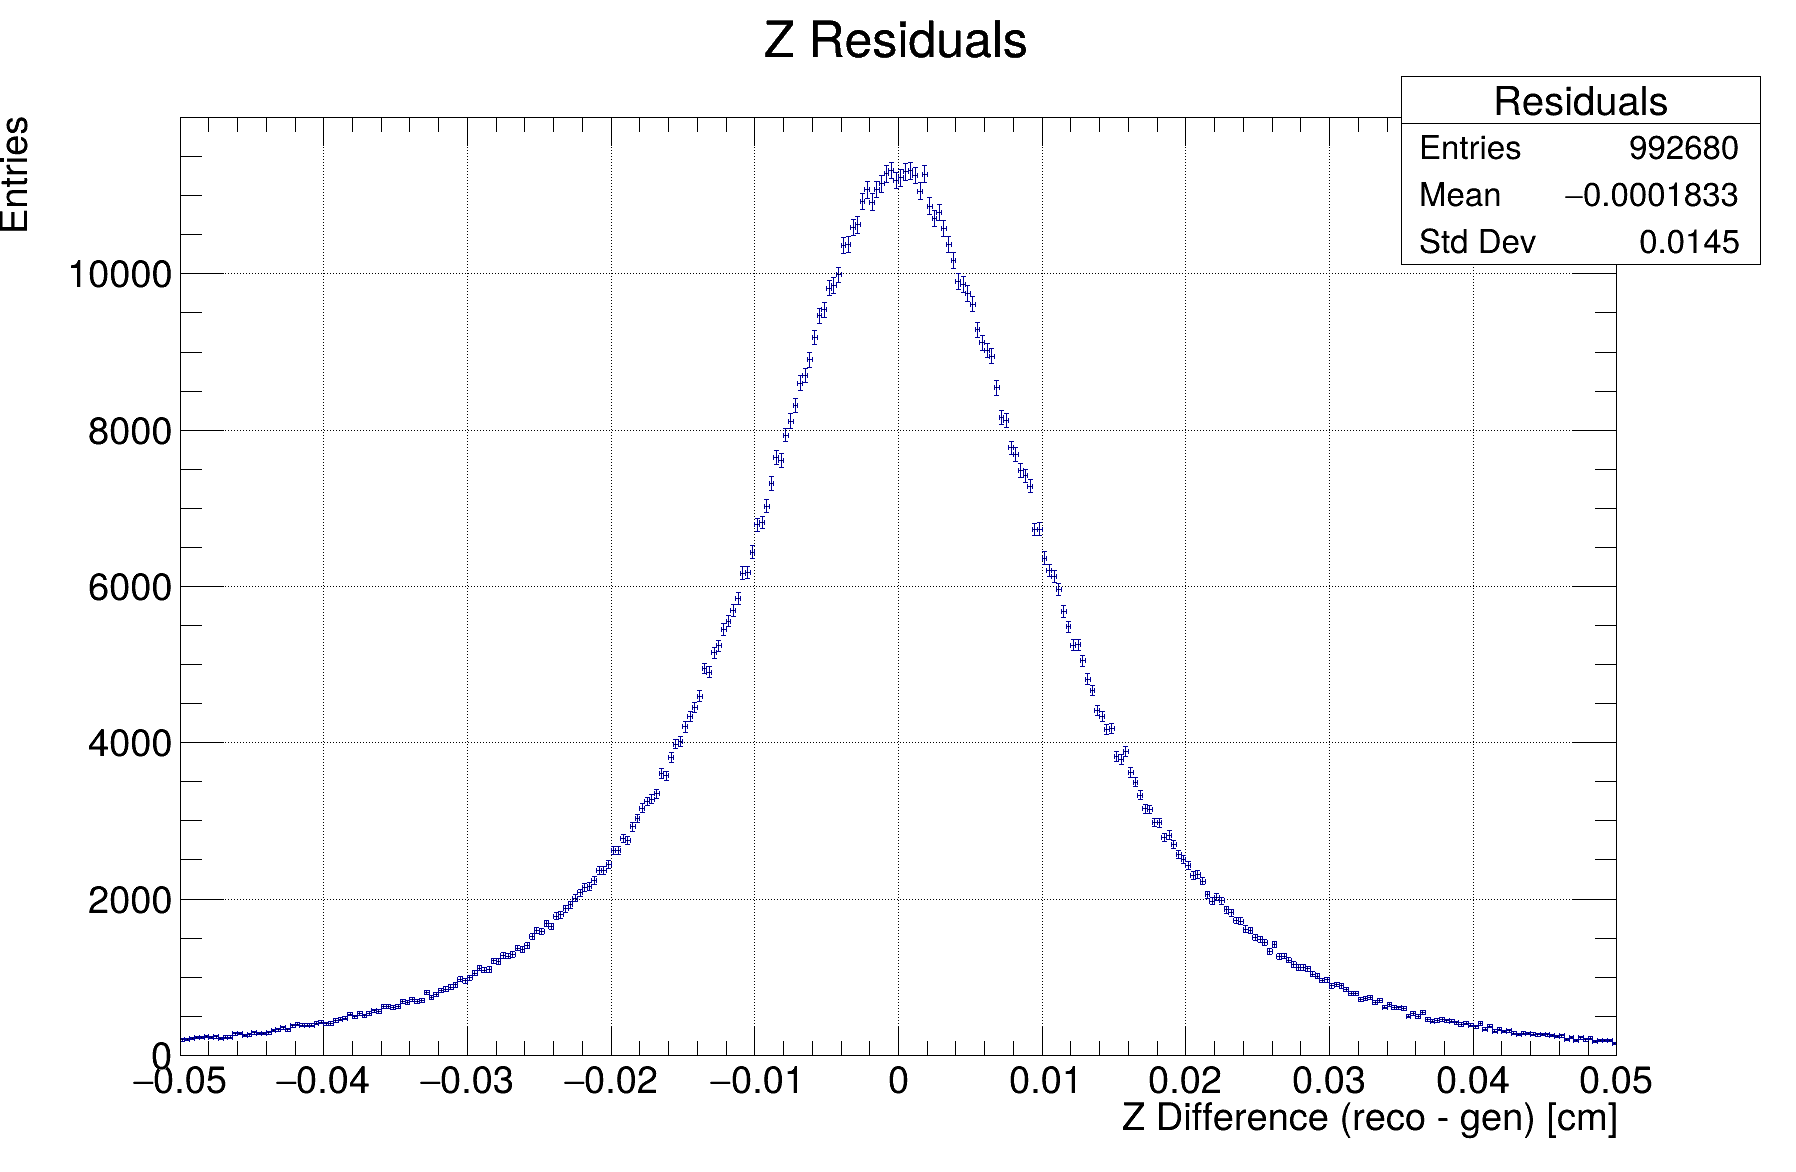
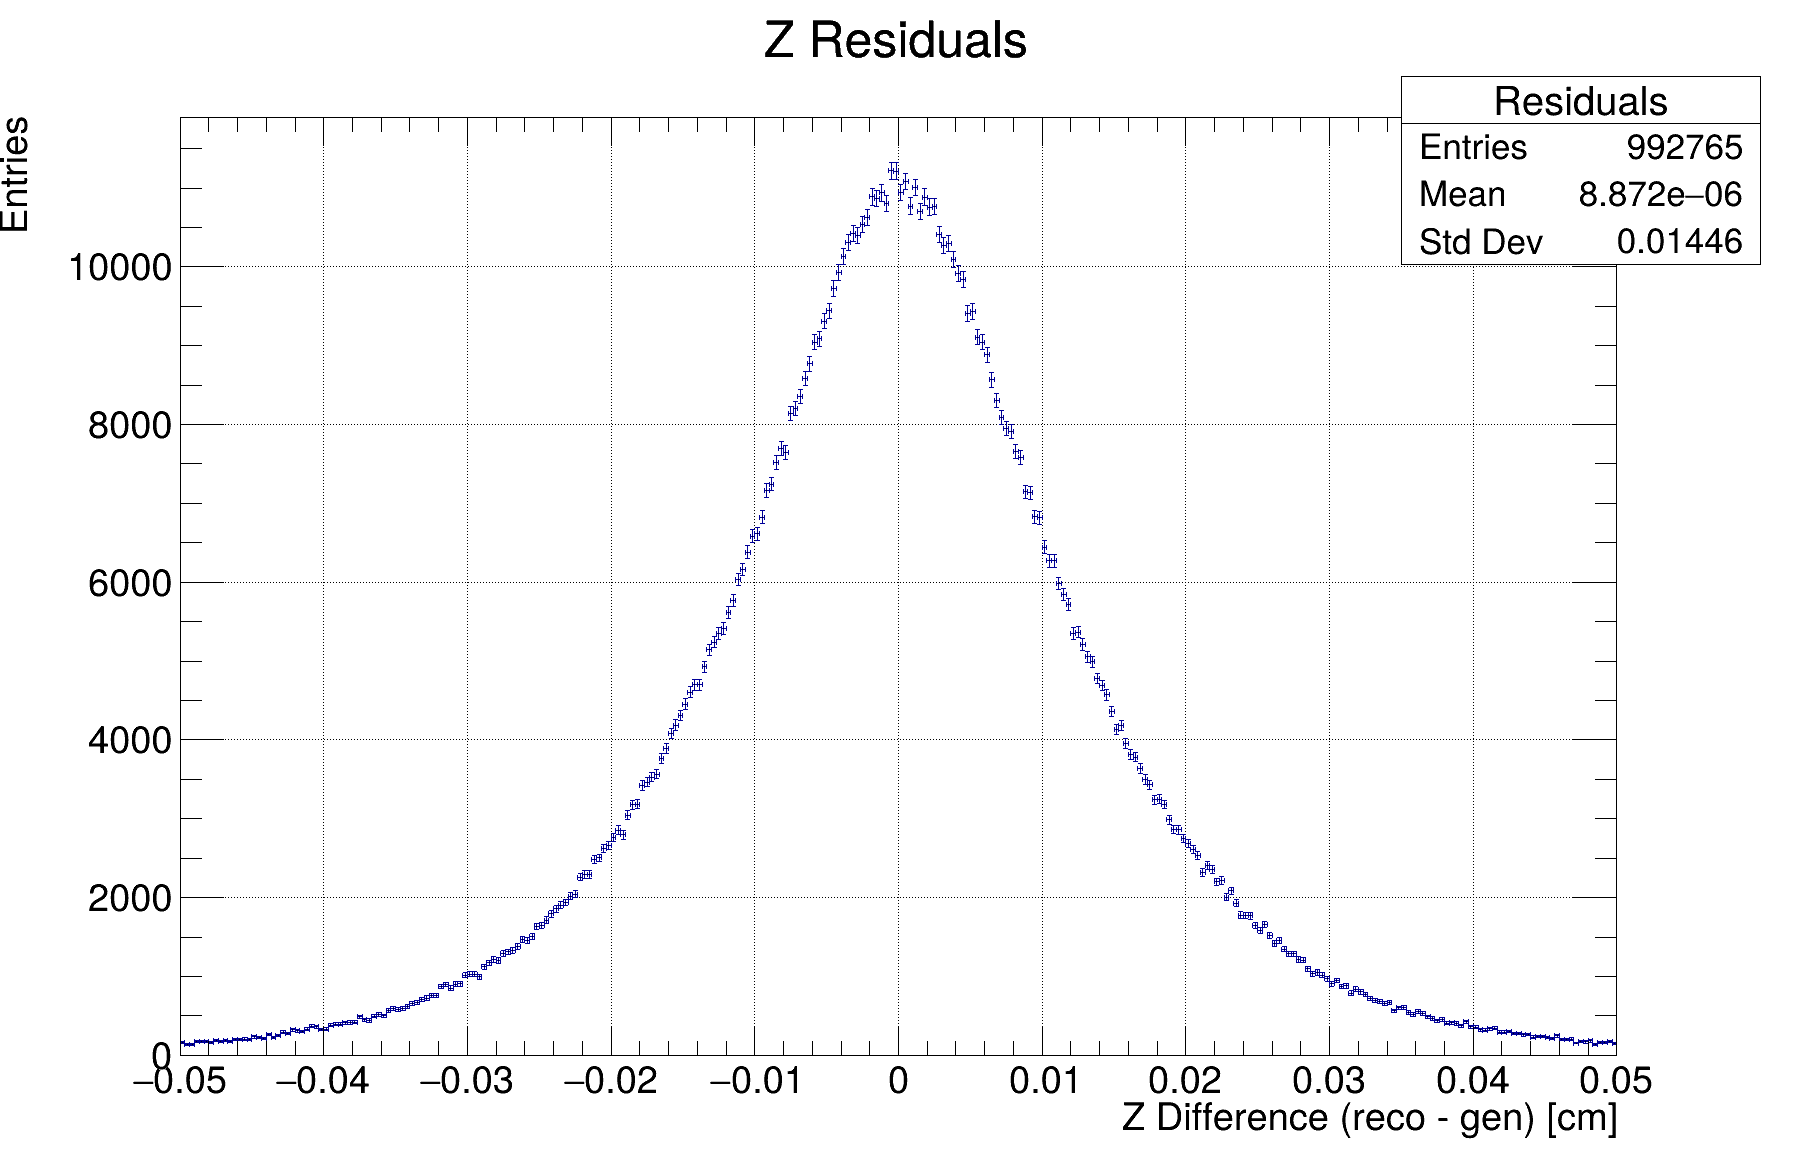
Improved running window estimation

diff --git a/project/macros/reco.C b/project/macros/reco.C
@@ -9,30 +9,40 @@
 #include <Riostream.h>
 #include "../headers/myPoint.h"
 
-double runningWindow(const vector<double>& zCollection, double window_size = 0.5) {
+double runningWindow(const vector<double>& zCollection, double window_size=0.5) {
     double z_min = -13.5;
     double z_max = 13.5;
     unsigned maxCount = 0;
-    double bestWindowStart = 0.0;
-    
+    double bestWindowStart = -13.5;
+    double bestWindowEnd = 13.5;
+
     for (double windowStart = z_min; windowStart <= z_max - window_size; windowStart += window_size) {
         double windowEnd = windowStart + window_size;
         unsigned int count = 0;
         for (double z : zCollection) {
+
             if ((z >= windowStart && z < windowEnd)) {
                 count++;
             }
         }
+
+
+
         if (count > maxCount) {
             maxCount = count;
             bestWindowStart = windowStart;
         }
+
+        if ((count!=0) && (count==maxCount)){
+            bestWindowEnd = windowEnd;
+        }
+
     }
     
     double sum = 0.0;
     unsigned int count = 0;
     for (double z : zCollection) {
-        if (z >= bestWindowStart && z < bestWindowStart + window_size) {
+        if (z >= bestWindowStart && z < bestWindowEnd) {
             sum += z;
             count++;
         }
@@ -40,6 +50,46 @@ double runningWindow(const vector<double>& zCollection, double window_size = 0.5
     return sum / count;
 }
 
+
+
+/*
+double runningWindow(const vector<double>& zCollection, double window_size=0.5) {
+    double z_min = -13.5;
+    double z_max = 13.5;
+    unsigned maxCount = 0;
+    double bestWindowEnd = 0.0;
+    int i = 0;
+    for (double windowEnd = z_max; windowEnd >= z_min + window_size; windowEnd -= window_size) {
+        //cout<<windowEnd<<endl;
+        double windowStart = windowEnd - window_size;
+        unsigned int count = 0;
+        ++i;
+        for (double z : zCollection) {
+            if (z > windowStart && z <= windowEnd) {
+                count++;
+            }
+        }
+        
+        if (count > maxCount) {
+            maxCount = count;
+            bestWindowEnd = windowEnd;
+        }
+    }
+    //cout<<i<<endl;
+    
+    double sum = 0.0;
+    unsigned int count = 0;
+    
+    for (double z : zCollection) {
+        if (z > bestWindowEnd - window_size && z <= bestWindowEnd) {
+            sum += z;
+            count++;
+        }
+    }
+    
+    return sum / count;
+}
+*/
 
 
 
@@ -60,7 +110,7 @@ double recoZ(myPoint* point1, myPoint* point2){
 
 
 
-void reco(unsigned int events=1000000, double phiCut=0.01, double windowSize=0.2, bool noise=true){
+void reco(unsigned int events=1000000, double phiCut=0.01, double windowSize=0.5, bool noise=true){
     TStopwatch stopwatch;
     stopwatch.Start();
     cout<<""<<endl;
